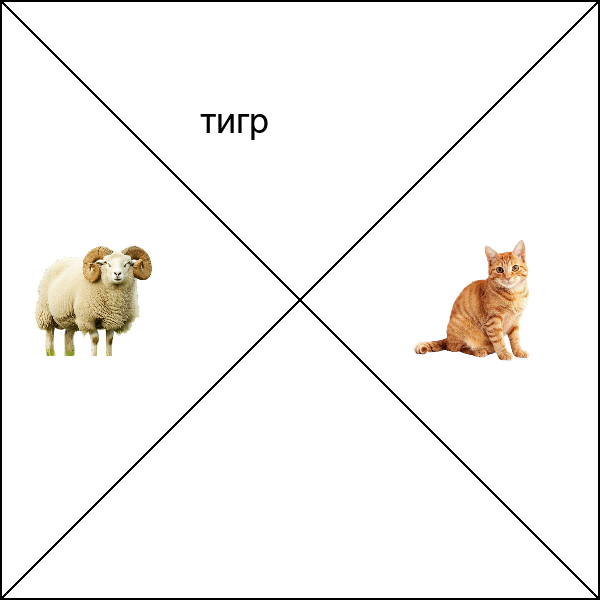
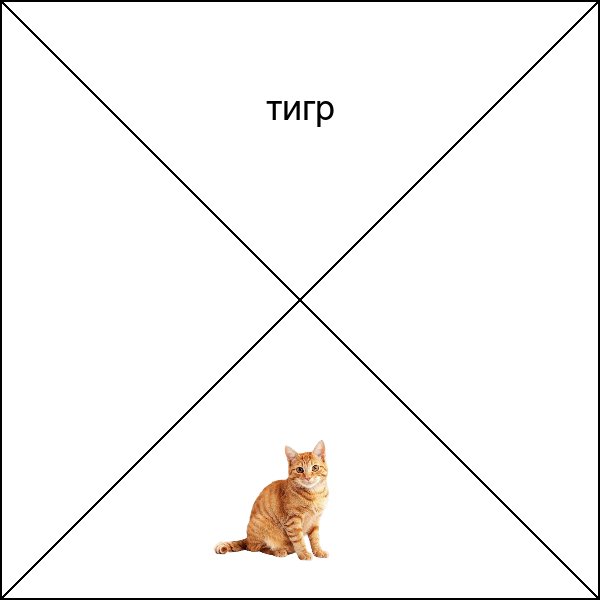
сделано наложение текста с центрированием

diff --git a/text_nal2.py b/text_nal2.py
@@ -1,0 +1,22 @@
+from PIL import Image, ImageDraw, ImageFont
+
+def add_centered_text(image, text, center_x, center_y, font, color=(0, 0, 0)):
+    draw = ImageDraw.Draw(image)
+    
+    # Получаем размеры текста
+    bbox = draw.textbbox((0, 0), text, font=font)
+    text_width = bbox[2] - bbox[0]
+    text_height = bbox[3] - bbox[1]
+    
+    # Вычисляем позицию для центрирования
+    x = center_x - text_width // 2
+    y = center_y - text_height // 2
+    
+    draw.text((x, y), text, font=font, fill=color)
+    return image
+
+# Использование
+img = Image.open('result.png')
+font = ImageFont.truetype("arial.ttf", 36)
+add_centered_text(img, "тигр", img.width//2, 100, font)
+img.save('output.png')
